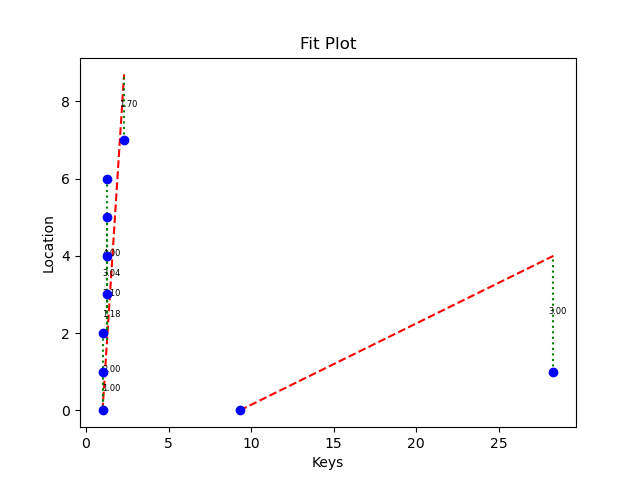
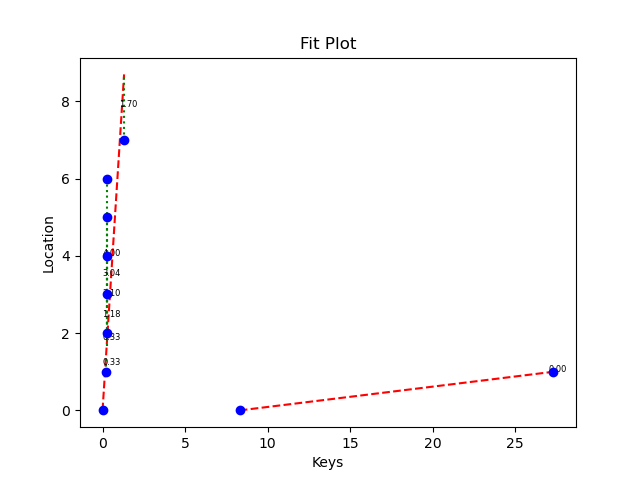
changed name to dcone

diff --git a/src/segment.cpp b/src/segment.cpp
@@ -45,7 +45,7 @@ std::vector<std::pair<float, Segment*>> gen_segments_cone(float* data, int size,
                     loc += 1;
                 }
                 if(ind < size){
-                    seg = new Segment(curr, loc, data[ind - loc], 0);
+                    seg = new Segment(curr, loc, 0);
                     res.emplace_back(data[ind - 1], seg);
                 }
             }
@@ -58,11 +58,11 @@ std::vector<std::pair<float, Segment*>> gen_segments_cone(float* data, int size,
                 if(size - ind == 1) break;
                 while(ind < size){
                     dlt = data[ind] - st;
-                    up = (int)(slhigh * dlt);
-                    dn = (int)(sllow * dlt);
+                    up = round(slhigh * dlt);
+                    dn = round(sllow * dlt);
                     // std::cout << "y: " << loc << ", y_high: " << up << ", y_low: " << dn << ", slh: " << slhigh << ", sll: " << sllow << "\n";
                     if(loc > up || loc < dn){
-                        seg = new Segment(curr, loc, data[ind - loc], (slhigh + sllow) / 2);
+                        seg = new Segment(curr, loc, (slhigh + sllow) / 2);
                         res.emplace_back(data[ind - 1], seg);
                         break;
                     }
@@ -80,12 +80,12 @@ std::vector<std::pair<float, Segment*>> gen_segments_cone(float* data, int size,
             break;
         }
     }
-    seg = new Segment(curr, loc, data[ind - loc], (slhigh + sllow) / 2);
+    seg = new Segment(curr, loc, (slhigh + sllow) / 2);
     res.emplace_back(data[ind - 1], seg);
     return res;
 }
 
-std::vector<std::pair<float, Segment*>> gen_segments_irng(float* data, int size, int err){
+std::vector<std::pair<float, Segment*>> gen_segments_dcone(float* data, int size, int err){
     std::vector<std::pair<float, Segment*>> res;
     if(size == 0) return res;
     Segment* seg;
@@ -100,7 +100,7 @@ std::vector<std::pair<float, Segment*>> gen_segments_irng(float* data, int size,
         ind += 1;
         if(size - ind > 0){
             dlt = data[ind] - st;
-            // need to set st_up, st_dn, slup, sldn, loc, avg_dlt
+            // need to set st_up, st_dn, slup, sldn, loc
             dup_cnt = 0;
             while(dlt == 0 && ind < size){
                 dlt = data[ind] - st;
@@ -113,7 +113,7 @@ std::vector<std::pair<float, Segment*>> gen_segments_irng(float* data, int size,
                     // not possible to include all, cut losses
                     ind -= (dup_cnt - err);
                     dup_cnt = err;
-                    seg = new Segment(curr, dup_cnt + 1, data[ind - dup_cnt - 1], 0);
+                    seg = new Segment(curr, dup_cnt + 1, 0);
                     res.emplace_back(data[ind - 1], seg);
                     goto Make_Segment;
                 }
@@ -168,11 +168,11 @@ std::vector<std::pair<float, Segment*>> gen_segments_irng(float* data, int size,
                             m_dec = true;
                         }
                     }
-                    seg = new Segment(curr, j, st, m);
+                    seg = new Segment(curr, j, m);
                     res.emplace_back(data[i - 1], seg);
                     if(i < ind){
                         // break computed segment :(
-                        std::cerr << "Lost " << (ind - i) << " iterations (" << (float)(ind - i) / size << "% of total)\n";
+                        std::cerr << "Lost " << (ind - i) << " iterations (" << (ind - i) * 100.0 / size << "% of total)\n";
                         ind = i;
                     }
                     break;
@@ -190,8 +190,8 @@ std::vector<std::pair<float, Segment*>> gen_segments_irng(float* data, int size,
             break;
         }
     }
-    m = (slup + sldn) / 2;
     if(loc > 2){
+        m = (slup + sldn) / 2;
         int i = ind - loc, j, prd;
         m_inc = false;
         m_dec = false;
@@ -209,7 +209,7 @@ std::vector<std::pair<float, Segment*>> gen_segments_irng(float* data, int size,
                 m_dec = true;
             }
         }
-        seg = new Segment(curr, j, st, m);
+        seg = new Segment(curr, j, m);
         res.emplace_back(data[i - 1], seg);
         if(i < ind){
             // break computed segment :(
@@ -219,7 +219,9 @@ std::vector<std::pair<float, Segment*>> gen_segments_irng(float* data, int size,
         }
     }
     else{
-        seg = new Segment(curr, loc, st, m);
+        if(loc == 2) m = 1 / ((*(curr + 1)) - (*curr));
+        else m = 0;
+        seg = new Segment(curr, loc, m);
         res.emplace_back(data[ind - 1], seg);
     }
     return res;

diff --git a/src/main.cpp b/src/main.cpp
@@ -51,22 +51,22 @@ int main(int argc, char *argv[])
     NUM_VALS = std::stoi(argv[1]);
     MAX_ERR = std::stoi(argv[2]);
 
-    // float* vals = (float*) malloc(sizeof(float) * NUM_VALS);
-    // for (int i = 0; i < NUM_VALS; i++)
-    // {
-    //     vals[i] = gen_func(i);
-    // }
-
     float* vals = (float*) malloc(sizeof(float) * NUM_VALS);
-    int rep_cnt = 0.3 * NUM_VALS;
-    for (int i = 0; i < rep_cnt; i++)
+    for (int i = 0; i < NUM_VALS; i++)
     {
-        vals[i] = 1;
+        vals[i] = gen_func(i);
     }
-    for (int i = rep_cnt; i < NUM_VALS; i++)
-    {
-        vals[i] = 1+ gen_func(i);
-    }
+
+    // float* vals = (float*) malloc(sizeof(float) * NUM_VALS);
+    // int rep_cnt = 0.7 * NUM_VALS;
+    // for (int i = 0; i < rep_cnt; i++)
+    // {
+    //     vals[i] = 1;
+    // }
+    // for (int i = rep_cnt; i < NUM_VALS; i++)
+    // {
+    //     vals[i] = 1+ gen_func(i);
+    // }
 
     // int N = 5;
     // NUM_VALS = 4 + (N * (MAX_ERR + 2));
@@ -76,7 +76,7 @@ int main(int argc, char *argv[])
     //     std::cout << vals[i] << "\n";
     // }
 
-    std::vector<std::pair<float, Segment *>> data = gen_segments_irng(vals, NUM_VALS, MAX_ERR);
+    std::vector<std::pair<float, Segment *>> data = gen_segments_dcone(vals, NUM_VALS, MAX_ERR);
     Segment *seg;
 
     std::ofstream stream("seg_out.txt");

diff --git a/src/segment.h b/src/segment.h
@@ -2,14 +2,14 @@
 
 struct Segment
 {
-    float *data, x_icpt, slp;
+    float *data, slp;
     int size;
-    Segment(float *values, int num, float x_intercpt, float slope)
-        : data(values), size(num), x_icpt(x_intercpt), slp(slope)
+    Segment(float *values, int num, float slope)
+        : data(values), size(num), slp(slope)
     {}
 };
 
 float* search_segment(Segment *segment, float key);
 void print_segment(Segment *segment, std::ofstream &stream);
 std::vector<std::pair<float, Segment *>> gen_segments_cone(float *data, int size, int err);
-std::vector<std::pair<float, Segment *>> gen_segments_irng(float *data, int size, int err);
+std::vector<std::pair<float, Segment *>> gen_segments_dcone(float *data, int size, int err);
